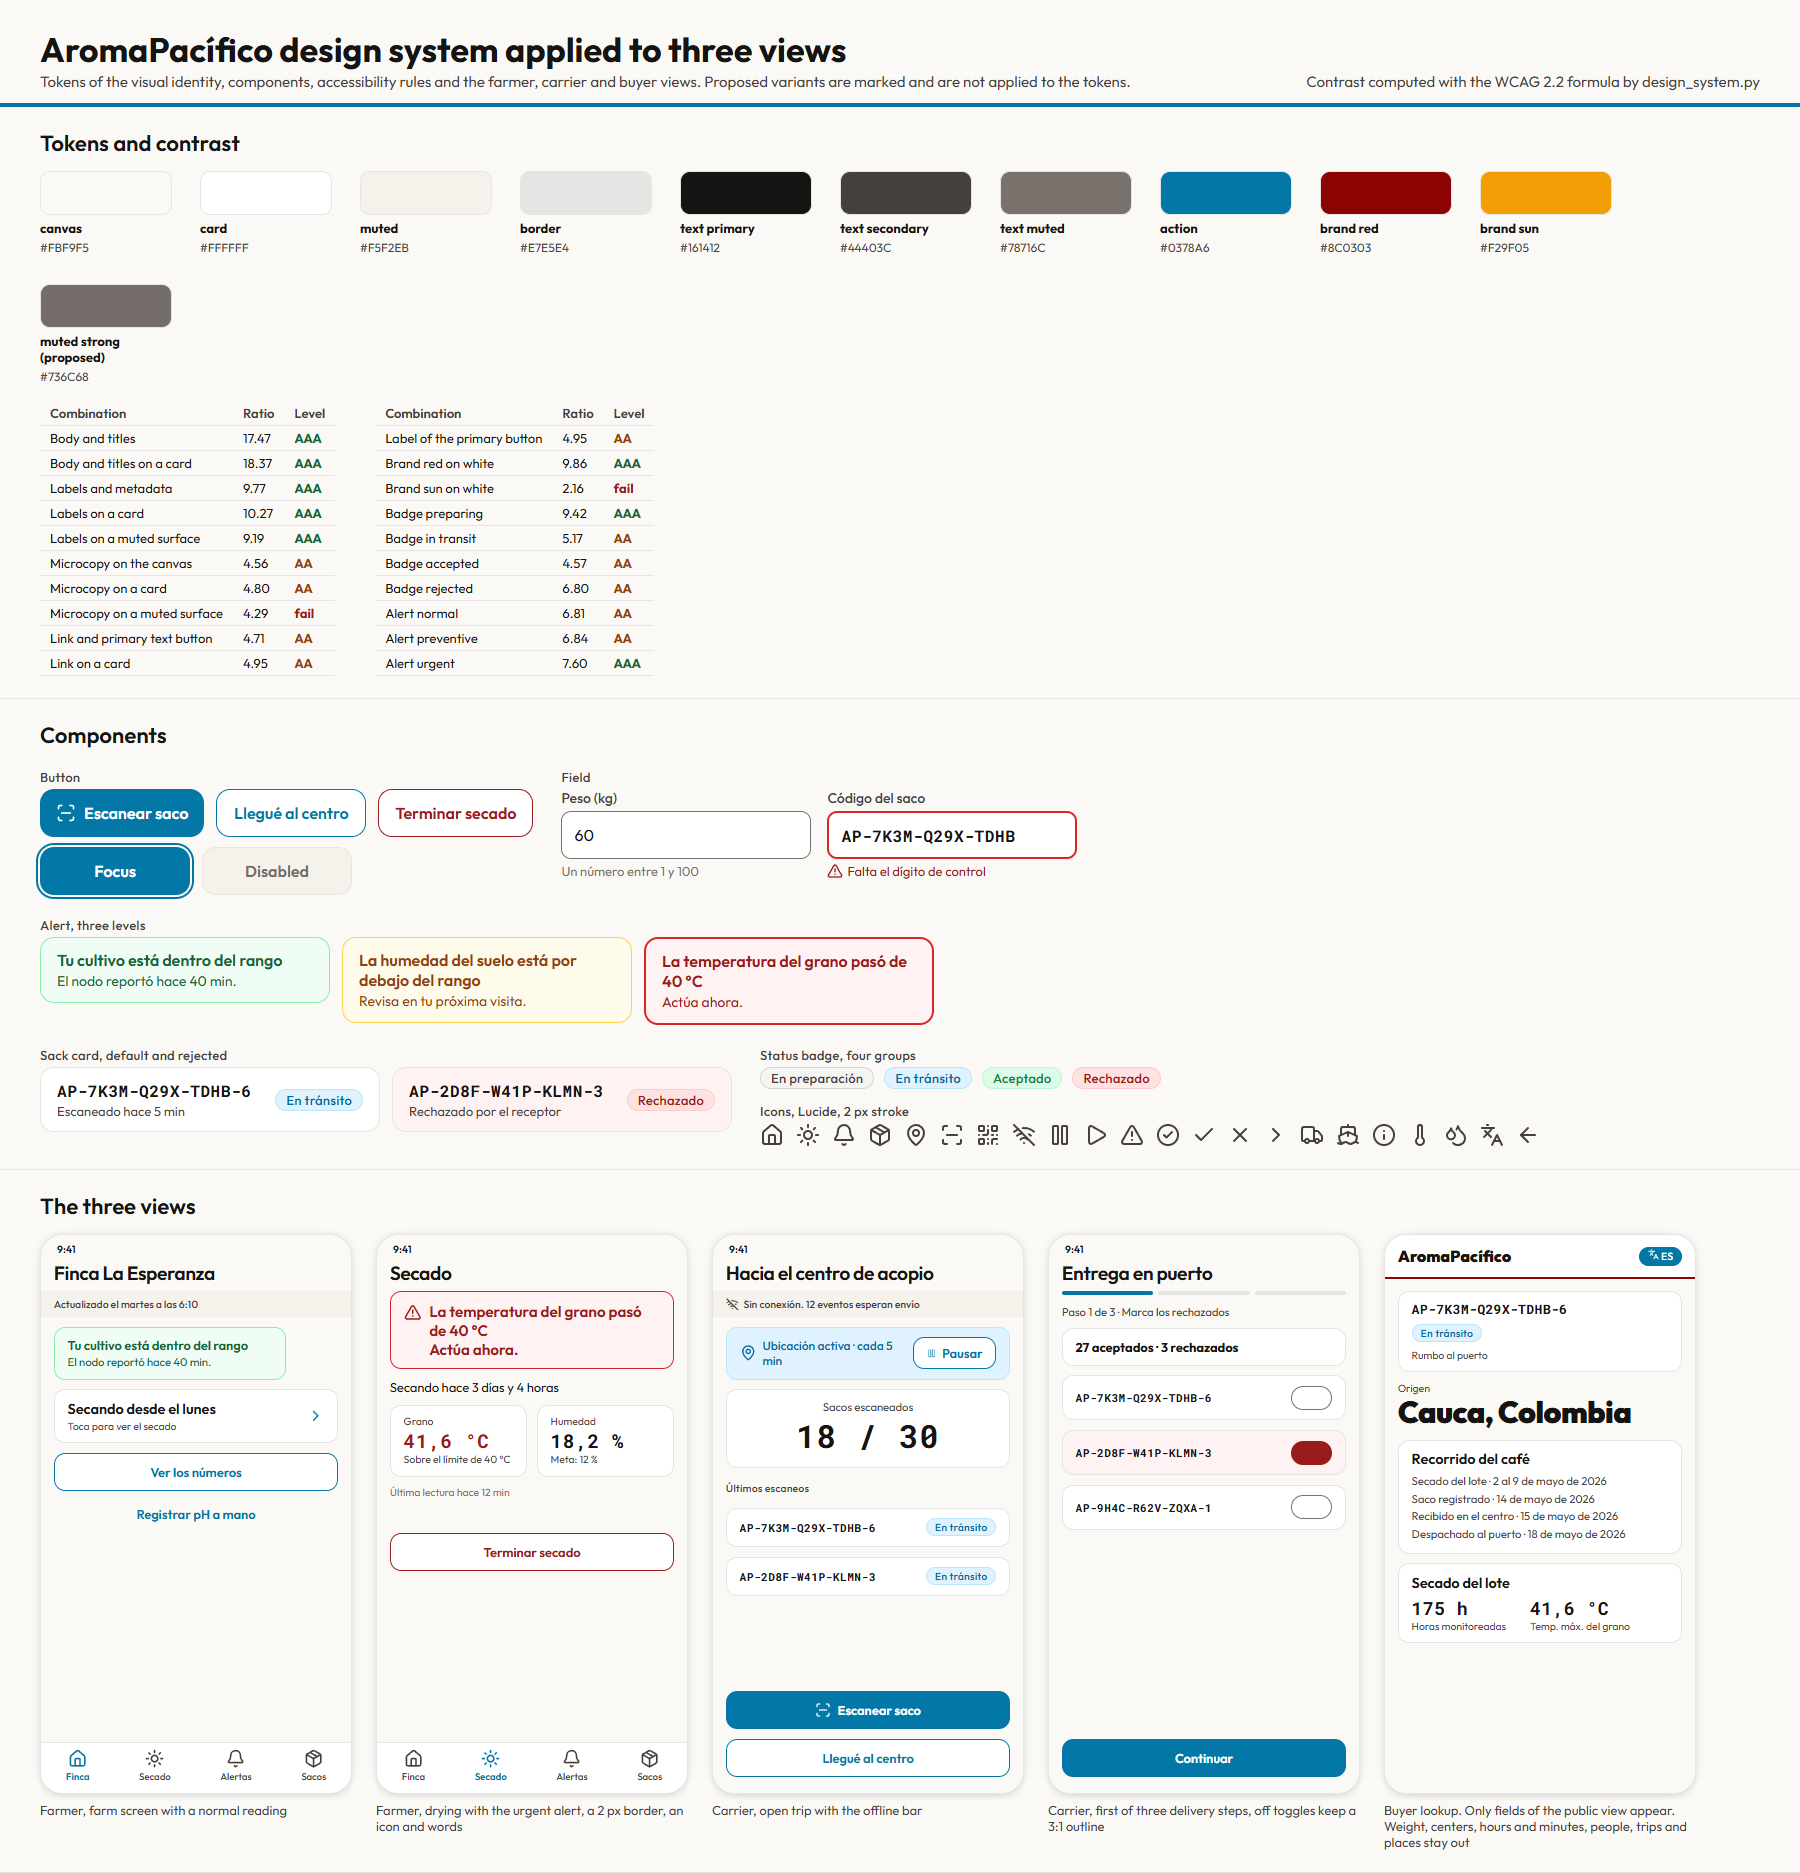
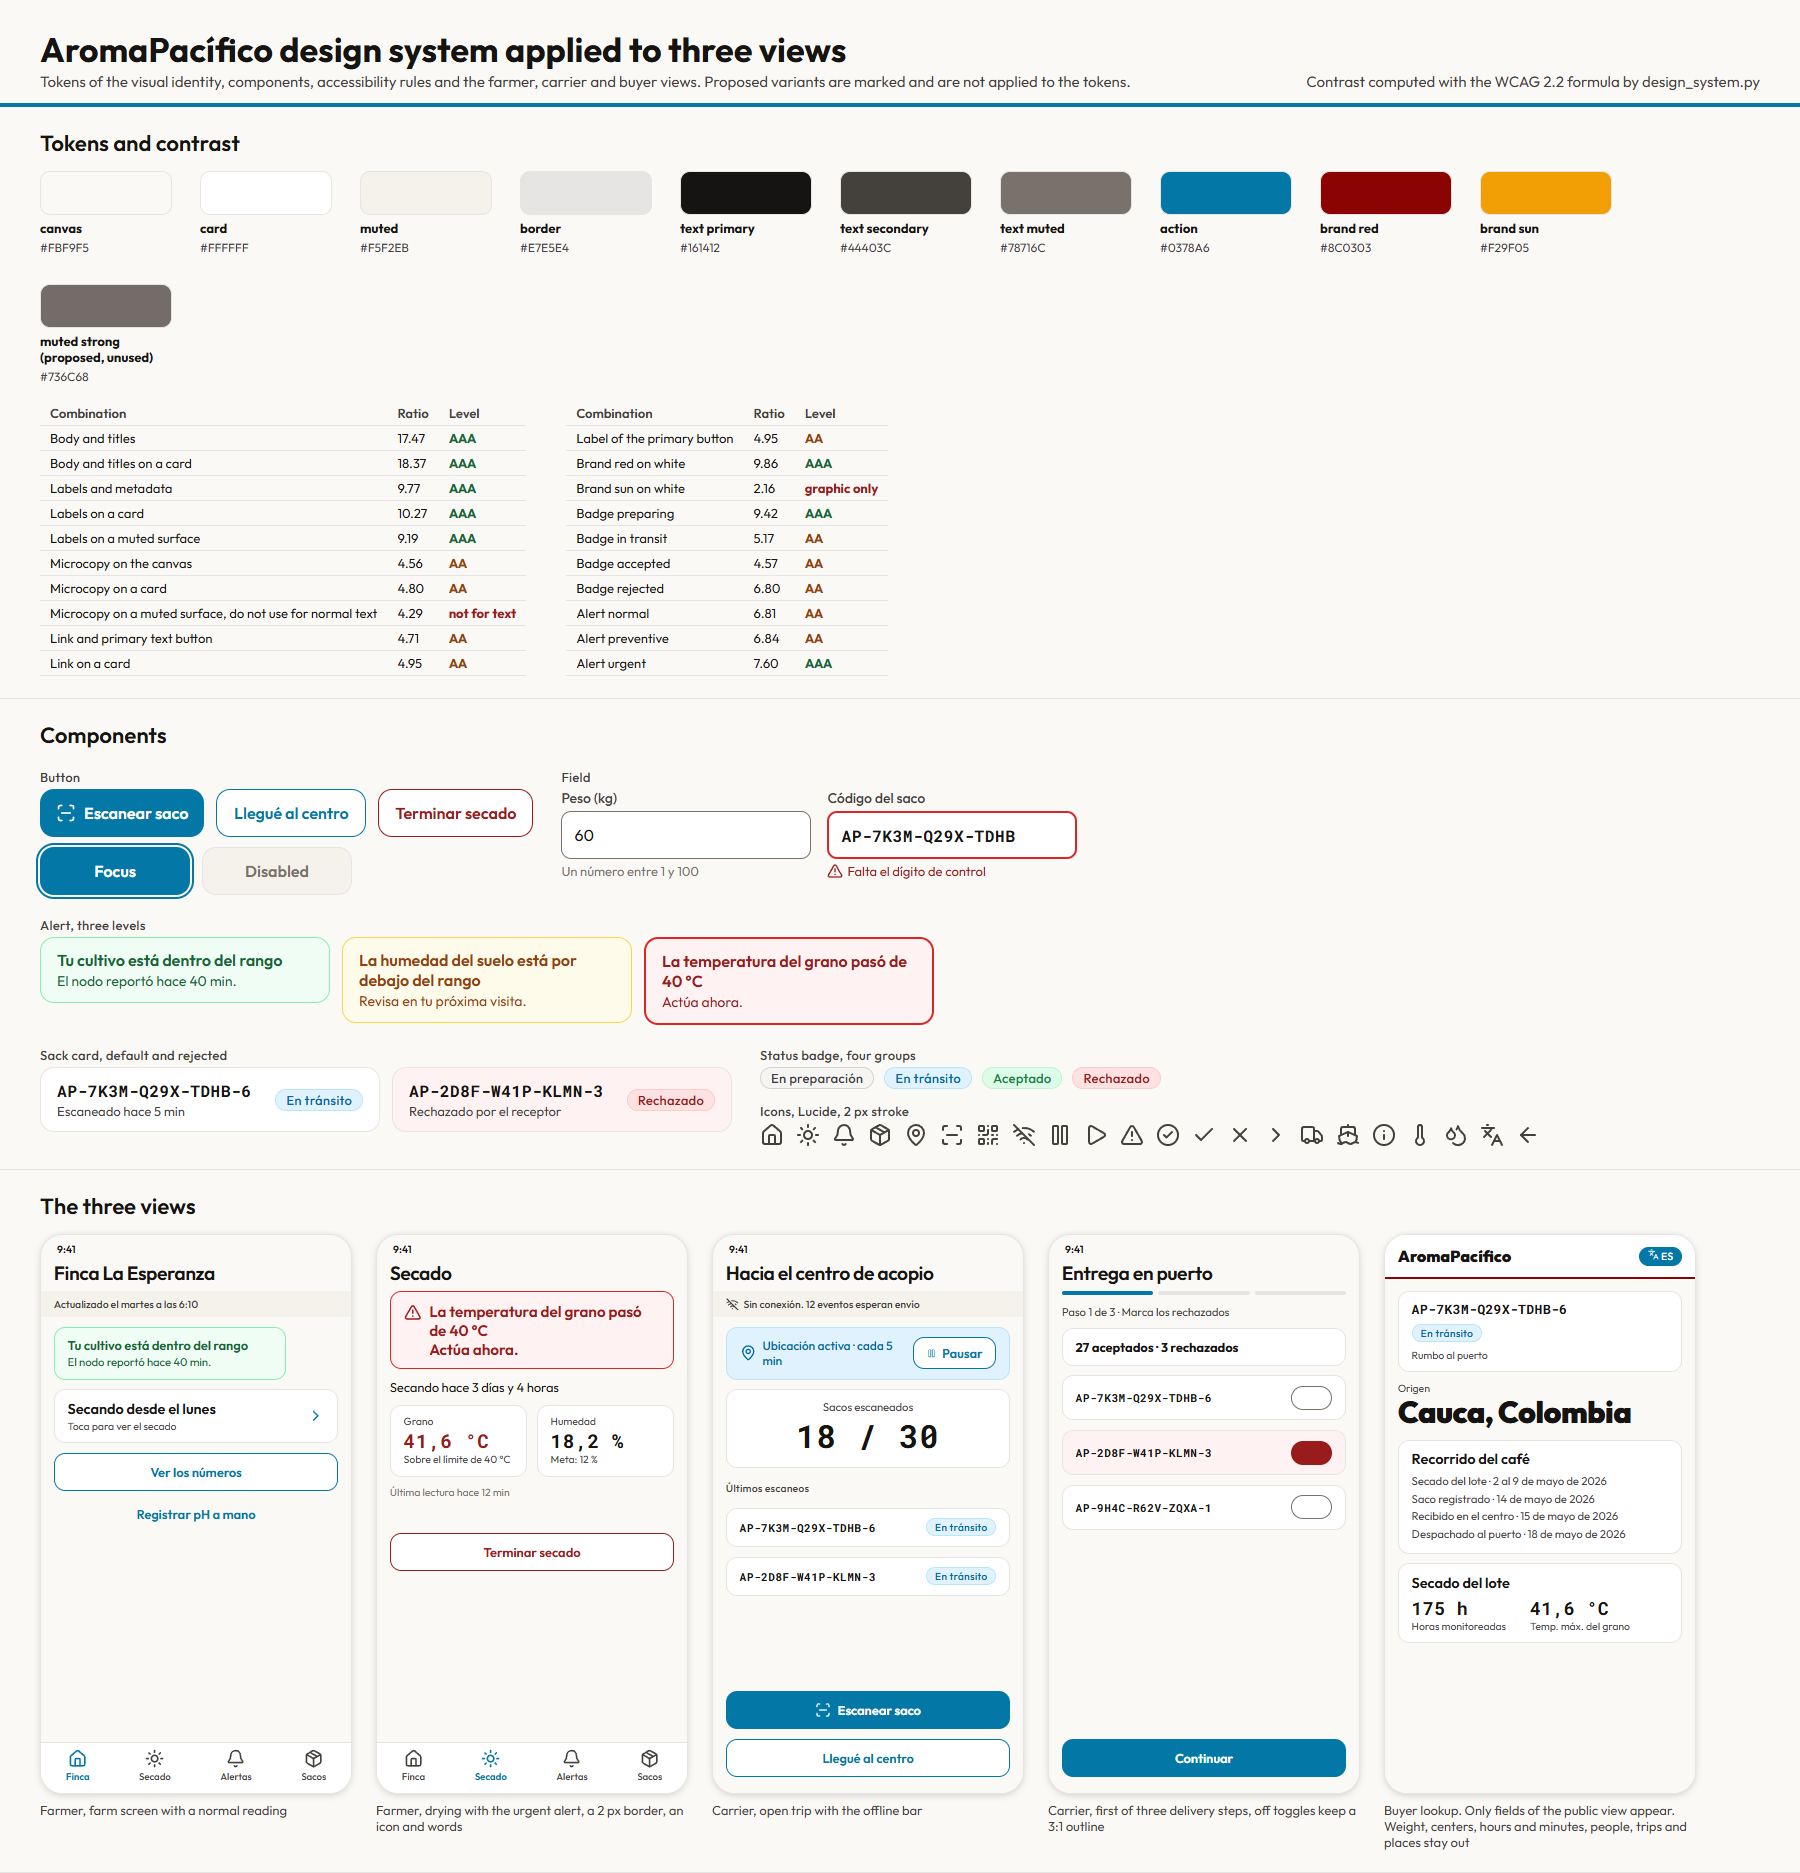
Mark the 4.29 contrast pair as not for normal text and list unaccepted proposals

diff --git a/docs/design/tools/design_sheet.py b/docs/design/tools/design_sheet.py
@@ -49,7 +49,7 @@ table{border-collapse:collapse;font-size:13px}td,th{border-bottom:1px solid var(
 .cap{font-size:13px;color:var(--t2);font-weight:500;letter-spacing:.02em;margin:6px 0 4px}
 .btn{height:48px;border-radius:14px;display:inline-flex;align-items:center;justify-content:center;gap:8px;padding:0 16px;font-weight:600;font-size:16px;min-width:150px}
 .p{background:var(--act);color:var(--inv)}.s{background:var(--card);color:var(--act);border:1.5px solid var(--act)}.d{background:var(--card);color:var(--a-urgent-text);border:1.5px solid var(--a-urgent-text)}
-.off{background:var(--muted);color:var(--t3s);border:1.5px solid var(--border)}.foc{outline:2px solid var(--act);outline-offset:2px}
+.off{background:var(--muted);color:var(--t3);border:1.5px solid var(--border)}.foc{outline:2px solid var(--act);outline-offset:2px}
 .field{width:250px}.field label{display:block;font-size:14px;font-weight:500;color:var(--t2);margin-bottom:4px}
 .field .in{height:48px;border-radius:10px;background:var(--card);border:1.5px solid var(--t3);padding:0 12px;display:flex;align-items:center;font-size:16px}
 .field .h{font-size:13px;color:var(--t3);margin-top:4px}.field .e{font-size:13px;color:var(--a-urgent-text);margin-top:4px;display:flex;gap:4px;align-items:center}
@@ -80,7 +80,7 @@ table{border-collapse:collapse;font-size:13px}td,th{border-bottom:1px solid var(
         return '<div class="tabs">' + "".join(f'<div class="{"on" if n == on else ""}">{ic(i, 24)}{n}</div>' for i, n in items) + "</div>"
 
     sw = ""
-    for name, path in (("canvas", "surface/canvas"), ("card", "surface/card"), ("muted", "surface/muted"), ("border", "surface/border"), ("text primary", "text/primary"), ("text secondary", "text/secondary"), ("text muted", "text/muted"), ("action", "action/primary"), ("brand red", "brand/red"), ("brand sun", "brand/sun"), ("muted strong (proposed)", "")):
+    for name, path in (("canvas", "surface/canvas"), ("card", "surface/card"), ("muted", "surface/muted"), ("border", "surface/border"), ("text primary", "text/primary"), ("text secondary", "text/secondary"), ("text muted", "text/muted"), ("action", "action/primary"), ("brand red", "brand/red"), ("brand sun", "brand/sun"), ("muted strong (proposed, unused)", "")):
         val = var["t3s"] if not path else T(path)
         sw += f'<div class="sw"><i style="background:{val}"></i><b>{name}</b><span>{val}</span></div>'
 
@@ -88,7 +88,7 @@ table{border-collapse:collapse;font-size:13px}td,th{border-bottom:1px solid var(
     for name, fg, bg, where, r, lv in ds.MATRIX:
         rows += f"<tr><td>{html.escape(name)}</td><td>{r:.2f}</td><td class='{lv}'>{lv}</td></tr>"
     half = (len(ds.MATRIX) + 1) // 2
-    ct = lambda a: "<table><tr><th>Combination</th><th>Ratio</th><th>Level</th></tr>" + "".join(f"<tr><td>{html.escape(m[0])}</td><td>{m[4]:.2f}</td><td class='{m[5]}'>{m[5]}</td></tr>" for m in a) + "</table>"
+    ct = lambda a: "<table><tr><th>Combination</th><th>Ratio</th><th>Level</th></tr>" + "".join(f"<tr><td>{html.escape(m[0])}</td><td>{m[4]:.2f}</td><td class='{m[5]}'>{'graphic only' if m[0] in ds.NOT_TEXT else ('not for text' if m[5]=='fail' else m[5])}</td></tr>" for m in a) + "</table>"
 
     comp = f"""
 <div class="row">
@@ -142,4 +142,11 @@ table{border-collapse:collapse;font-size:13px}td,th{border-bottom:1px solid var(
 <div>{carrier1}<div class="note">Carrier, open trip with the offline bar</div></div>
 <div>{carrier4}<div class="note">Carrier, first of three delivery steps, off toggles keep a 3:1 outline</div></div>
 <div>{buyer1}<div class="note">Buyer lookup. Only fields of the public view appear. Weight, centers, hours and minutes, people, trips and places stay out</div></div></div></div>"""
+    for rule in re.findall(r"\.([\w-]+)\{([^}]*)\}", css):
+        sel, decl = rule
+        if "background:var(--muted)" in decl and "color:var(--t3)" in decl and sel != "off":
+            raise SystemExit(f"the sheet puts text/muted on surface/muted in .{sel}")
+    for frag in re.findall(r'style="([^"]*)"', body):
+        if "background:var(--muted)" in frag and "color:var(--t3)" in frag:
+            raise SystemExit("the sheet puts text/muted on surface/muted in an inline style")
     Path(out).write_text(f"<!DOCTYPE html><html lang='en'><head><meta charset='utf-8'><style>{css}</style></head><body>{body}</body></html>", encoding="utf-8")

diff --git a/docs/design/tools/design_system.py b/docs/design/tools/design_system.py
@@ -89,7 +89,7 @@ USES = [
     ("Labels on a muted surface", "text/secondary", "surface/muted", "Offline bar, secondary sections", True),
     ("Microcopy on the canvas", "text/muted", "surface/canvas", "Relative times", True),
     ("Microcopy on a card", "text/muted", "surface/card", "Hints under a field", True),
-    ("Microcopy on a muted surface", "text/muted", "surface/muted", "Offline bar, status bars", True),
+    ("Microcopy on a muted surface, do not use for normal text", "text/muted", "surface/muted", "Inherited from the mockups, not used by these components", True),
     ("Link and primary text button", "action/primary", "surface/canvas", "Links, secondary button", True),
     ("Link on a card", "action/primary", "surface/card", "Links inside a card", True),
     ("Label of the primary button", "text/inverse", "action/primary", "Primary button", True),
@@ -126,7 +126,7 @@ MATRIX = build_matrix()
 FAILING = [m for m in MATRIX if m[0] not in NOT_TEXT and m[5] == "fail"]
 
 # every text combination reaches AA except the ones that carry a documented variant
-VARIANT_FOR = {"Microcopy on a muted surface"}
+VARIANT_FOR = {"Microcopy on a muted surface, do not use for normal text"}
 for name, fg, bg, where, r, lv in MATRIX:
     if name not in NOT_TEXT and name not in VARIANT_FOR:
         check(r >= 4.5, f"{name} is {r:.2f}, below AA, and has no documented variant")
@@ -195,6 +195,11 @@ ICONS = {
 for name in ICONS:
     check((DESIGN / "icons" / f"{name}.svg").exists(), f"icon {name} is missing")
 check((DESIGN / "icons" / "LICENSE.txt").exists(), "the license of the icon set is missing")
+
+# no component may put the muted text on the muted surface, and the document must say so
+for cname, cdesc, *_ in COMPONENTS:
+    check(not ("text/muted" in cdesc and "surface/muted" in cdesc), f"component {cname} pairs text/muted with surface/muted")
+check("do not use for normal text" in (DESIGN / "design-system.md").read_text(encoding="utf-8"), "the document does not mark the pair below AA as not for normal text")
 
 # ---------------------------------------------------------------- screens: view, id, name, components, icons
 SCREENS = [
@@ -297,6 +302,7 @@ def tables():
 
 def main():
     if "--sheet" in sys.argv:
+        sys.dont_write_bytecode = True
         sys.path.insert(0, str(Path(__file__).resolve().parent))
         import design_sheet
         i = sys.argv.index("--sheet")

diff --git a/docs/design/design-system.md b/docs/design/design-system.md
@@ -108,11 +108,11 @@ The rule has two levels. Text that carries a decision outdoors reaches 7 to 1 wh
 | Link on the canvas | `action/primary` | `surface/canvas` | 4.71 | AA |
 | Badge accepted | `status/accepted/text` | its fill | 4.57 | AA |
 | Microcopy on the canvas | `text/muted` | `surface/canvas` | 4.56 | AA |
-| Microcopy on a muted surface | `text/muted` | `surface/muted` | 4.29 | Below AA |
+| Microcopy on a muted surface, do not use for normal text | `text/muted` | `surface/muted` | 4.29 | Below AA |
 
-Eight combinations reach AAA, ten stop at AA and one is below AA. The system does not claim AAA for every pair. The body text, the labels, the logotype, the badge in preparation and the urgent alert reach it. The primary button, the links, the badges of transit and acceptance, the normal and preventive alerts and the microcopy stop at AA. Brand sun, at 2.16, is a graphic accent and is never text. A disabled control is outside the contrast requirement, as WCAG 2.2 states for inactive components.
+Eight combinations reach AAA, ten stop at AA and one is below AA. The system does not claim AAA for every pair. The body text, the labels, the logotype, the badge in preparation and the urgent alert reach it. The primary button, the links, the badges of transit and acceptance, the normal and preventive alerts and the microcopy stop at AA. Brand sun, at 2.16, is a graphic accent and is never text. A disabled control is outside the contrast requirement, as WCAG 2.2 states for inactive components, so the disabled button on the sheet uses `text/muted` on `surface/muted` and is not an example for active text.
 
-The one combination below AA is microcopy on a muted surface, such as a relative time on the offline bar. The rule is that a muted surface carries `text/secondary`, and the variant below is proposed for the places where the lighter text is wanted.
+The one combination below AA is microcopy on a muted surface. It is marked do not use for normal text. It is not a choice of this document. The mockups of the identity already draw it, in the offline bar of the farmer and carrier screens and in the footer of the lookup, so it is a pair inherited from them. The components and the sheet here put `text/secondary` on a muted surface, at 9.19, and none of them uses the lighter text there. The variant below is offered to the owner of the identity for the places where they want the lighter look, and nothing in this document depends on it.
 
 | Variant | Replaces | Old | Proposed | Ratio on canvas, card and muted |
 |---|---|---|---|---|
@@ -192,16 +192,18 @@ It checks the design as written. It measures no real device in sunlight, it does
 
 ## 9. Proposals for the visual identity
 
-These changes belong to the owner of the identity, and none is applied here.
+The owner of the identity decides these, and none is applied to a token or to the design file. The table says what each one changes in this document and whether the components depend on it.
 
-| Proposal | Reason |
-|---|---|
-| Add the field as a component | Four screens need it, which are register a sack, the scanner, the delivery receipt and write the code |
-| Add `text/muted-strong` for text on a muted surface, or use `text/secondary` there | The pair is 4.29 and falls below AA |
-| Set the field border and the off toggle outline to `text/muted` | The default border is 1.26 and fails the 3 to 1 rule for controls |
-| Describe the contrast as two levels and drop the statement that all text is AAA | The primary button, the links and several badges stop at AA |
-| Offer a darker blue for the primary button where AAA is wanted | The blue gives 4.95 with white text |
-| Link the screens to the variables of the design file | The mockups still hold fixed values |
+| Proposal | Components that depend on it | If it is declined |
+|---|---|---|
+| Add the field as a component of the identity | The field of the register, scanner, delivery and code screens | The field stays defined here and is not in the design file |
+| Use `text/muted` as the field border and as the outline of the off toggle | The field and the toggle of the delivery screen | The default border is 1.26 and fails the 3 to 1 rule for controls, so those two parts would fail |
+| Describe the contrast as two levels and drop the statement that all text is AAA | None. The rules here already use two levels | The identity keeps a claim that its own tokens do not meet |
+| Mark text on a muted surface as `text/secondary`, or add `text/muted-strong` | None. The components use `text/secondary` there | The offline bar and the lookup footer of the mockups stay at 4.29 |
+| Offer a darker blue for the primary button where AAA is wanted | None. The primary button reaches AA at 4.95 | The button stays at AA |
+| Link the screens to the variables of the design file | None | The mockups keep fixed values |
+
+Every other component, rule and screen uses only the tokens as they stand. The field and the off toggle are the two parts that depend on an unaccepted proposal, so the design system is complete in this repository and its adoption in the design file waits on the owner.
 
 ## 10. Assumptions and pending confirmations
 
